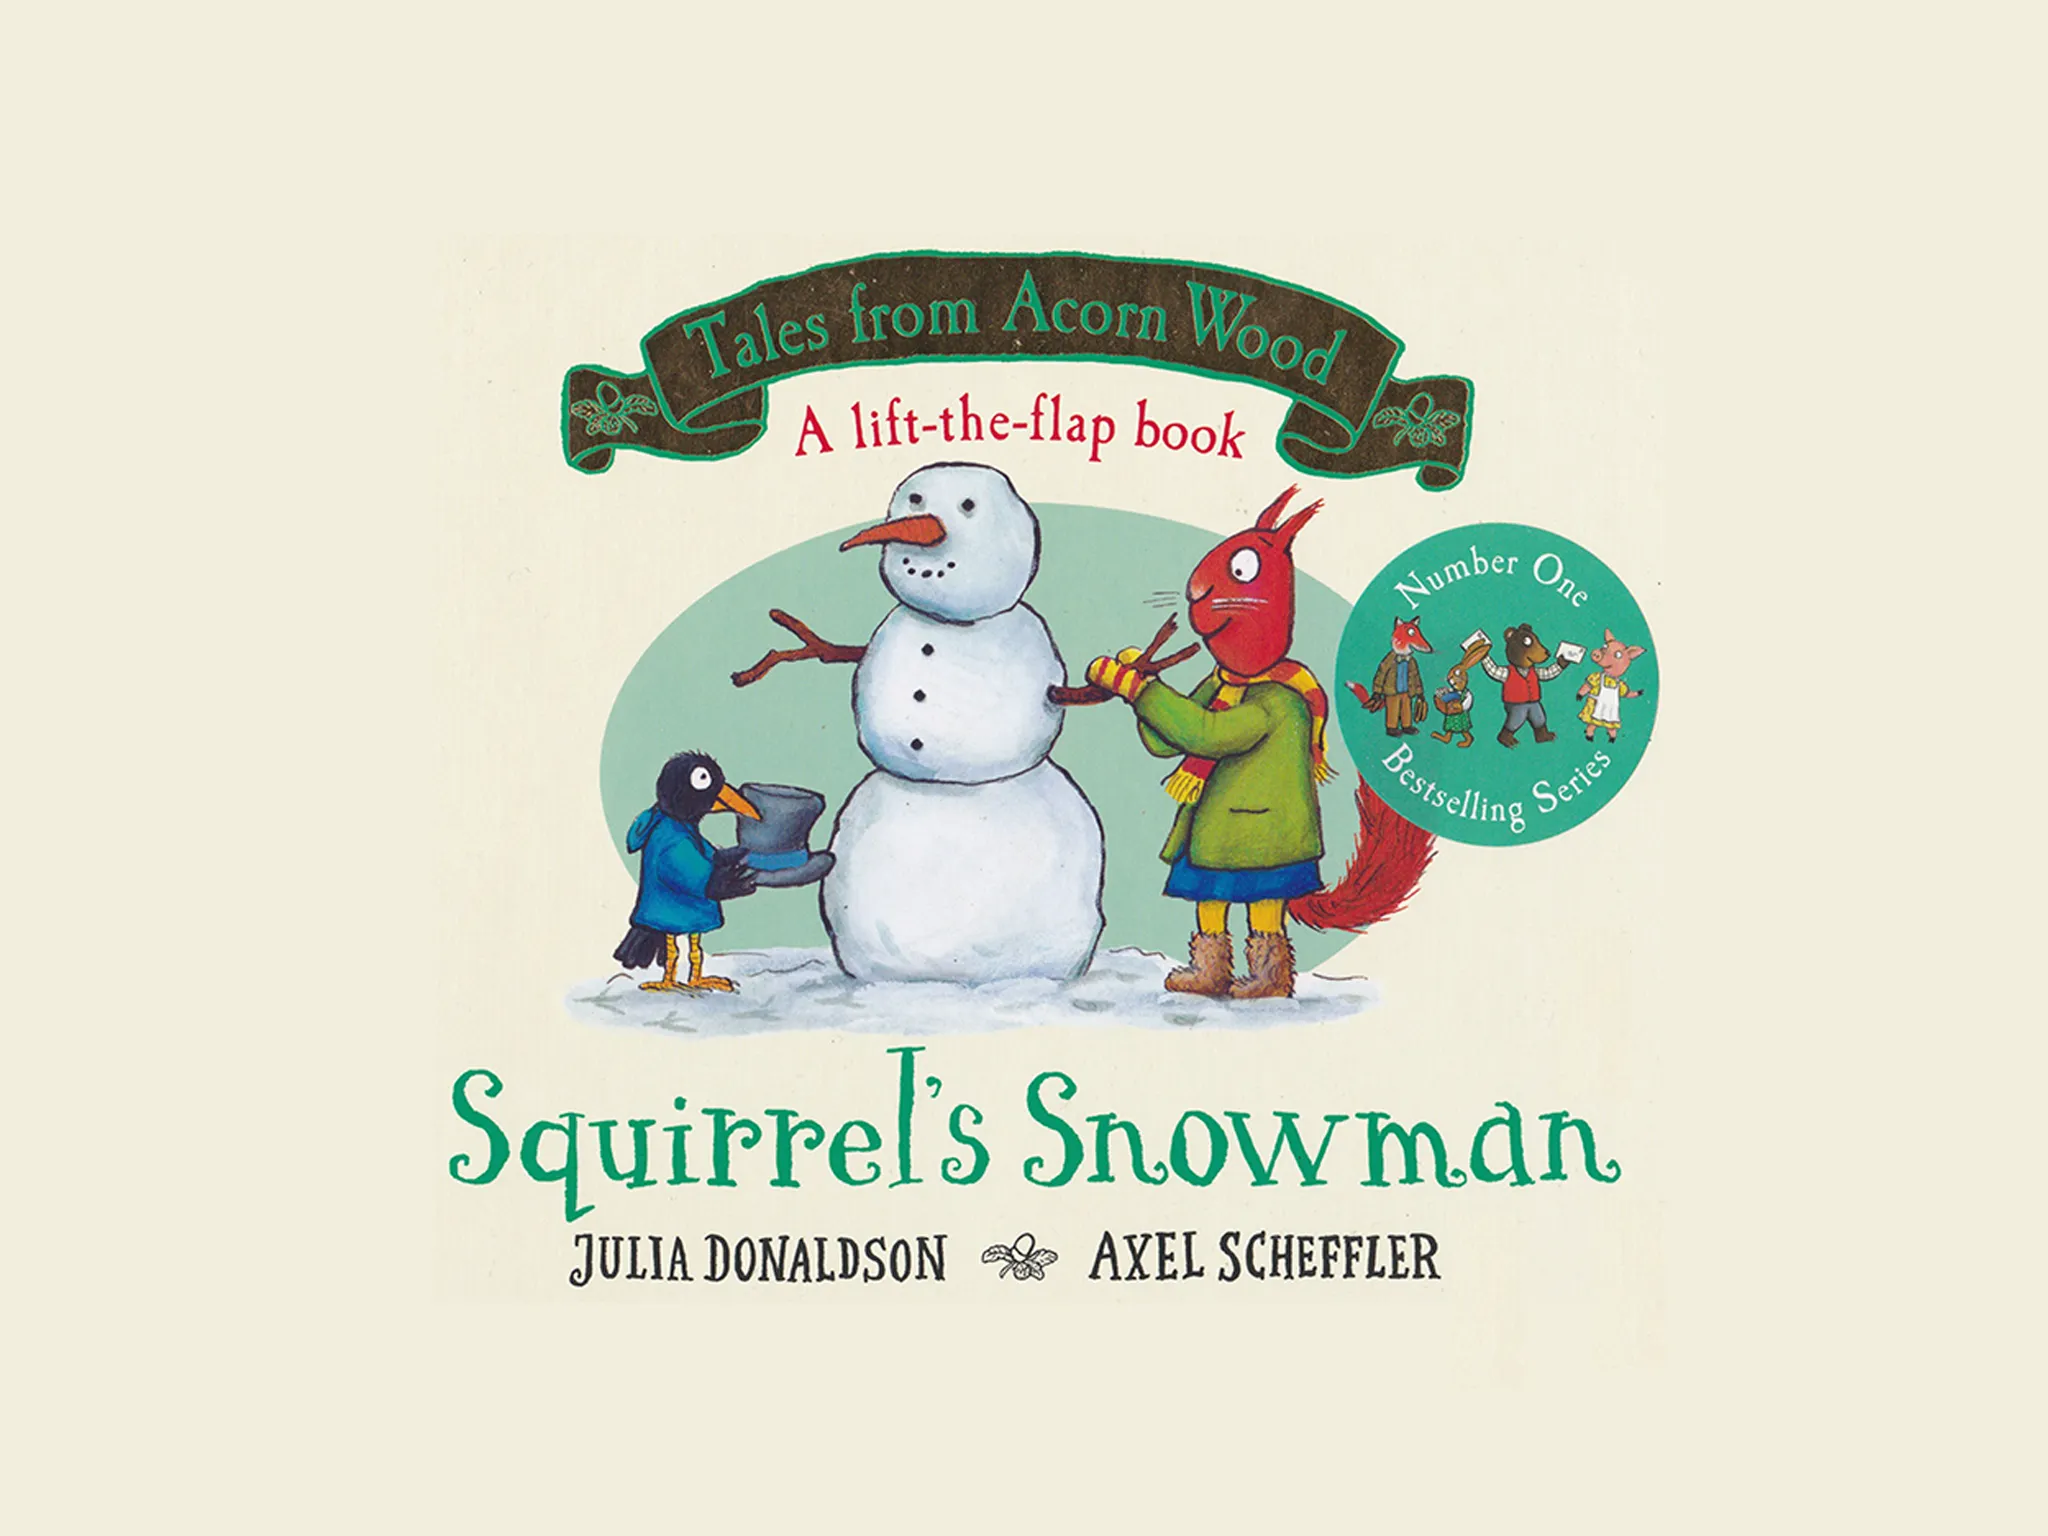
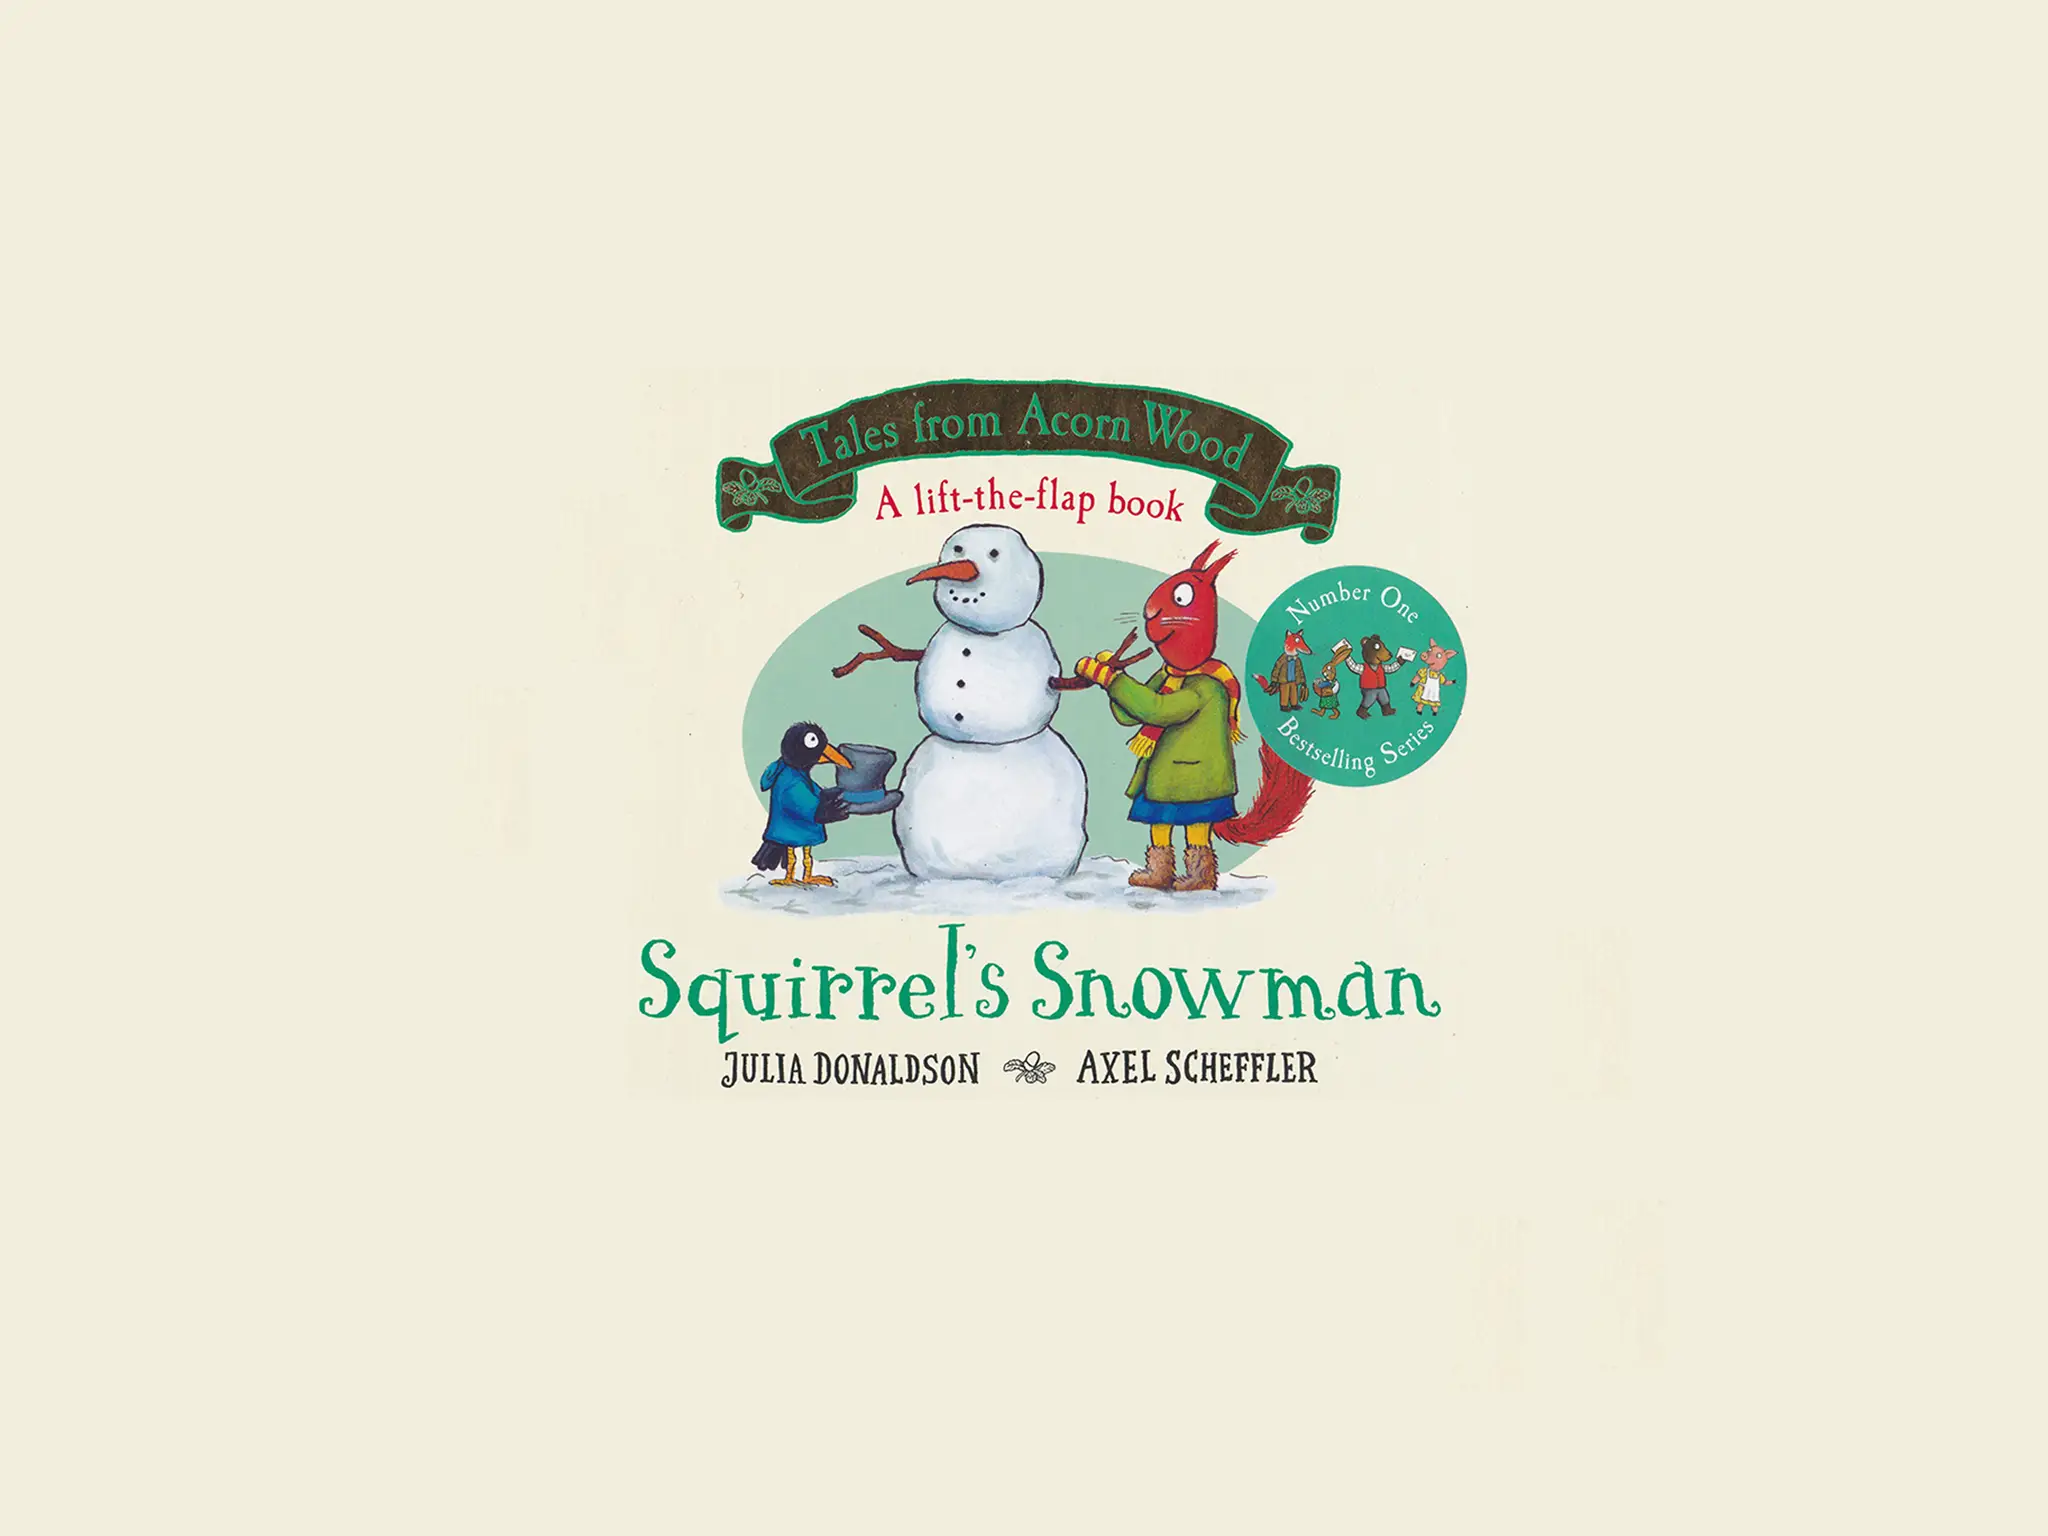
feat(stories): unify phone/tablet display, fix orientation, add Christmas story
- Unified image display: both devices use contain+scale approach
- Phone scale: 1.8, Tablet scale: 1.35, Cover pages: 99% of base
- Fixed completion screen staying in landscape (was forcing portrait)
- Removed phone-specific PHONE_CONTENT_AREA positioning logic
- Interactive elements use same coordinate calculation for all devices
- Changed squirrels-snowman to Christmas/bedtime category
- Reordered stories: squirrels-snowman now follows snuggle-little-wombat

Changed region(s): [[0.2188, 0.1562, 0.8125, 0.8438]]

diff --git a/grow-with-freya/components/stories/story-book-reader.tsx b/grow-with-freya/components/stories/story-book-reader.tsx
@@ -152,7 +152,6 @@ export function StoryBookReader({ story, onExit, onReadAnother, onBedtimeMusic }
       try {
         console.log('Story reader mounted - checking orientation...');
 
-
         const orientation = await ScreenOrientation.getOrientationAsync();
         const isLandscape = orientation === ScreenOrientation.Orientation.LANDSCAPE_LEFT ||
                            orientation === ScreenOrientation.Orientation.LANDSCAPE_RIGHT;
@@ -161,10 +160,9 @@ export function StoryBookReader({ story, onExit, onReadAnother, onBedtimeMusic }
           console.log('Already in landscape from thumbnail expansion');
           setIsLandscapeReady(true);
         } else {
-          console.log('Not in landscape yet - thumbnail expansion should have handled this');
-
+          console.log('Not in landscape yet - forcing landscape mode');
           await ScreenOrientation.lockAsync(ScreenOrientation.OrientationLock.LANDSCAPE);
-          console.log('Fallback landscape transition complete');
+          console.log('Landscape transition complete');
           setIsLandscapeReady(true);
         }
       } catch (error) {
@@ -174,7 +172,6 @@ export function StoryBookReader({ story, onExit, onReadAnother, onBedtimeMusic }
     };
 
     checkAndSetLandscape();
-
 
     return () => {
       if (isMounted) {
@@ -276,9 +273,6 @@ export function StoryBookReader({ story, onExit, onReadAnother, onBedtimeMusic }
   const isTablet = Math.min(screenWidth, screenHeight) >= 768; // iPad and larger
   const isLandscape = screenWidth > screenHeight;
   const isPhoneLandscape = !isTablet && isLandscape;
-
-  // Image resize mode based on device type
-  const imageResizeMode = isTablet ? 'contain' : 'cover';
 
   // Aggressive preloading for instant page transitions
   const preloadAdjacentPages = (currentIndex: number) => {
@@ -966,21 +960,24 @@ export function StoryBookReader({ story, onExit, onReadAnother, onBedtimeMusic }
   const renderPageContent = (page: any, isNextPage = false) => {
     if (!page) return null;
 
+    // Cover pages (page 0) use smaller scale for better presentation
+    const isCoverPage = page.pageNumber === 0;
+    const baseScale = isTablet ? 1.35 : 1.8;
+    const imageScale = isCoverPage ? baseScale * 0.99 : baseScale;
+
     return (
       <>
         {/* Full Screen Background Image */}
         {page.backgroundImage ? (
           <View style={[
             styles.fullScreenBackground,
-            {
-              backgroundColor: imageResizeMode === 'contain' ? '#000' : 'transparent'
-            }
+            { backgroundColor: '#000' }
           ]}>
             <Image
               source={typeof page.backgroundImage === 'string' ? { uri: page.backgroundImage } : page.backgroundImage}
               style={[
                 styles.backgroundImageStyle,
-                { width: '100%', height: '100%', transform: [{ scale: isTablet ? 1.35 : 1.8 }] }
+                { width: '100%', height: '100%', transform: [{ scale: imageScale }] }
               ]}
               resizeMode="contain"
             />

diff --git a/grow-with-freya/components/stories/story-completion-screen.tsx b/grow-with-freya/components/stories/story-completion-screen.tsx
@@ -33,22 +33,14 @@ export function StoryCompletionScreen({
 }: StoryCompletionScreenProps) {
   const insets = useSafeAreaInsets();
 
-  // Force portrait orientation on phones, allow landscape/portrait on tablets
+  // Keep landscape orientation for consistency with story reader
+  // The story reader will handle orientation when it mounts/unmounts
   useEffect(() => {
     const handleOrientation = async () => {
       try {
-        const { width, height } = Dimensions.get('window');
-        const isTablet = Math.min(width, height) >= 768; // iPad and larger
-
-        if (!isTablet) {
-          // Force portrait on phones
-          await ScreenOrientation.lockAsync(ScreenOrientation.OrientationLock.PORTRAIT_UP);
-          console.log('Story completion: Forced portrait orientation on phone');
-        } else {
-          // Allow both orientations on tablets
-          await ScreenOrientation.unlockAsync();
-          console.log('Story completion: Unlocked orientation for tablet');
-        }
+        // Stay in landscape - the completion screen is part of the story experience
+        await ScreenOrientation.lockAsync(ScreenOrientation.OrientationLock.LANDSCAPE);
+        console.log('Story completion: Staying in landscape mode');
       } catch (error) {
         console.warn('Failed to set orientation in story completion:', error);
       }

diff --git a/grow-with-freya/data/stories.ts b/grow-with-freya/data/stories.ts
@@ -442,9 +442,9 @@ const INTERACTIVE_TEST_STORIES: Story[] = [
   {
     id: 'squirrels-snowman',
     title: 'The Squirrel\'s Snowman',
-    category: 'nature',
-    tag: '🐿 Nature',
-    emoji: '🐿',
+    category: 'bedtime',
+    tag: '🎄 Christmas',
+    emoji: '🎄',
     coverImage: require('../assets/stories/squirrels-snowman/cover/thumbnail.webp'),
     isAvailable: true,
     ageRange: '2-5',
@@ -577,8 +577,14 @@ const INTERACTIVE_TEST_STORIES: Story[] = [
   }
 ];
 
-// Combine all stories
-export const ALL_STORIES: Story[] = [...MOCK_STORIES, ...ADDITIONAL_STORIES, ...PLACEHOLDER_STORIES, ...INTERACTIVE_TEST_STORIES];
+// Combine all stories (squirrels-snowman comes right after snuggle-little-wombat)
+export const ALL_STORIES: Story[] = [
+  MOCK_STORIES[0], // snuggle-little-wombat
+  ...INTERACTIVE_TEST_STORIES, // squirrels-snowman
+  ...MOCK_STORIES.slice(1), // rest of mock stories
+  ...ADDITIONAL_STORIES,
+  ...PLACEHOLDER_STORIES
+];
 
 // Helper functions
 export function getAvailableStories(): Story[] {
